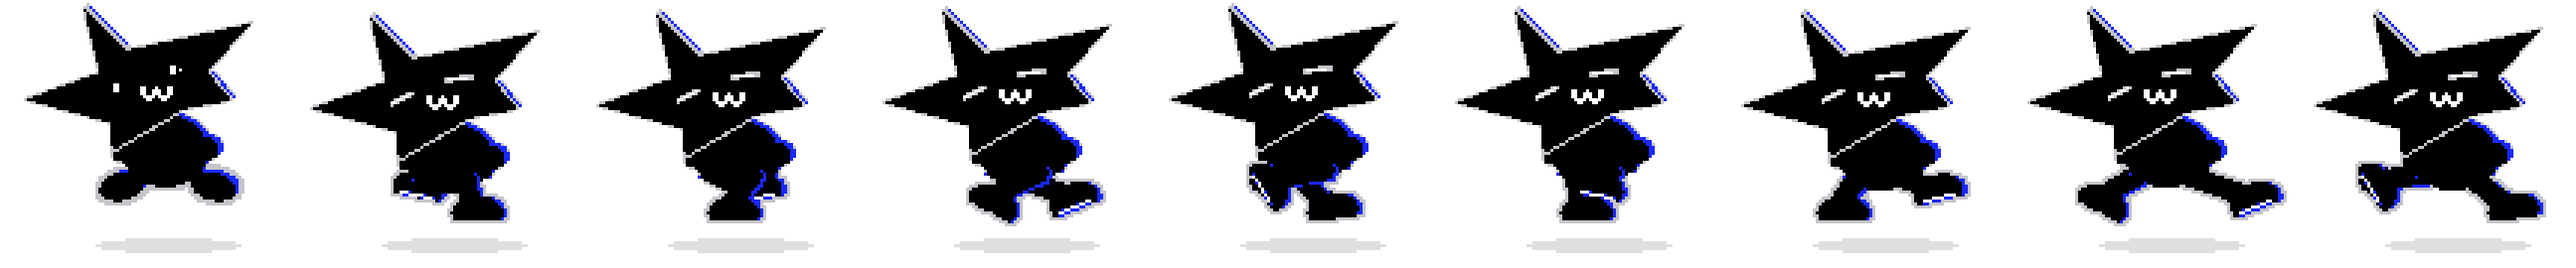
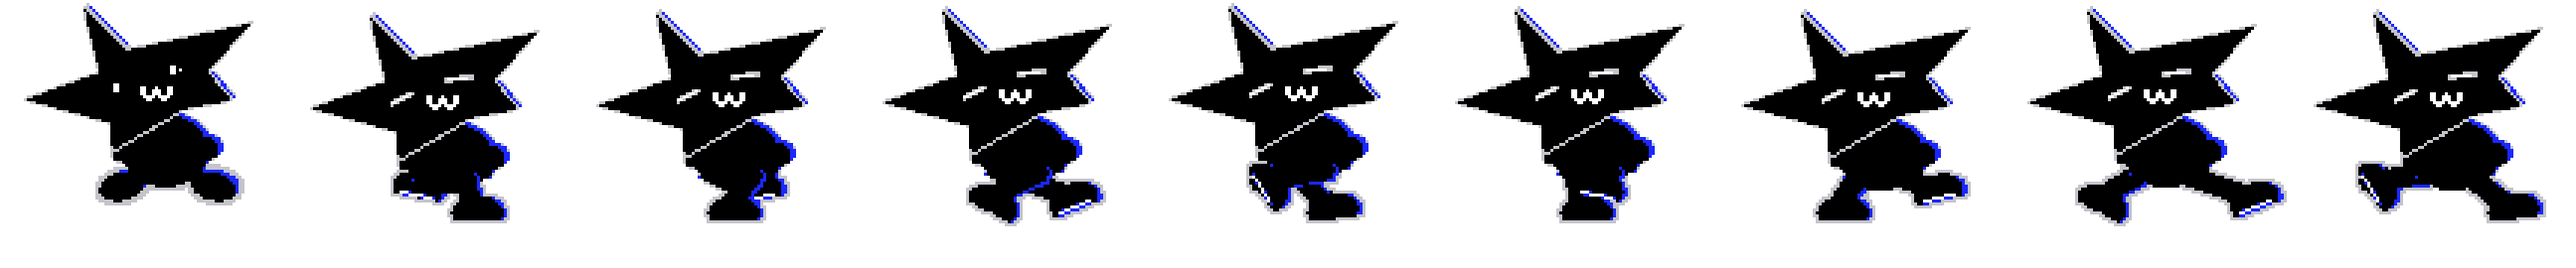
Runner: shadow stays on the ground while it jumps and runs
Claude-Session: https://claude.ai/code/session_01DXYceXV2BufLgyg9DJcQih

diff --git a/src/app/pong.css b/src/app/pong.css
@@ -368,9 +368,12 @@ button.pg-light { background: #ff5f57; cursor: pointer; }
 
 /* Feeling lucky 이스터에그: 7번째 누르면 별 캐릭터가 뛰어감 */
 .pg-egg { position: fixed; inset: 0; z-index: 100; pointer-events: none; overflow: hidden; }
-.pg-egg-run { position: absolute; bottom: 12vh; left: 0; width: 144px; height: 135px; background: 0 0 / 1296px 135px no-repeat; image-rendering: pixelated; transform-origin: 50% 100%; animation: pg-egg-hop .8s ease-in-out, pg-egg-dash 2.6s linear .8s both, pg-egg-legs .64s steps(8) .8s infinite; }
+.pg-egg-run { position: absolute; bottom: 12vh; left: 0; width: 144px; height: 135px; animation: pg-egg-dash 2.6s linear .8s both; }
+.pg-egg-run::before { content: ''; position: absolute; inset: 0; z-index: 1; background: var(--sprite) 0 0 / 1296px 135px no-repeat; image-rendering: pixelated; transform-origin: 50% 93%; animation: pg-egg-hop .8s ease-in-out, pg-egg-legs .64s steps(8) .8s infinite; }
+.pg-egg-run::after { content: ''; position: absolute; left: 48px; top: 120px; width: 72px; height: 7px; border-radius: 50%; background: rgba(0,0,0,.13); animation: pg-egg-shadow .8s ease-in-out; }
 /* pong이 그린 2장짜리 달리기 프레임을 넘기면서 화면을 가로질러 달려가요 */
 /* 첫 칸은 깜짝 놀란 얼굴: 제자리에서 폴짝 뛴 뒤 달려 나가요 */
+@keyframes pg-egg-shadow { 14% { transform: scaleX(1.12); } 42%, 58% { transform: scaleX(.55); opacity: .5; } 80% { transform: scaleX(1.15); } }
 @keyframes pg-egg-hop { 14% { transform: scale(1.18,.78); } 42% { transform: translateY(-64px) scale(.88,1.16) rotate(-8deg); } 58% { transform: translateY(-70px) rotate(5deg); } 80% { transform: scale(1.16,.82); } 92% { transform: scale(.96,1.05); } }
 @keyframes pg-egg-dash { from { translate: 6vw 0; } to { translate: 100vw 0; } }
 @keyframes pg-egg-legs { from { background-position: -144px 0; } to { background-position: -1296px 0; } }
@@ -378,8 +381,8 @@ button.pg-light { background: #ff5f57; cursor: pointer; }
 @keyframes pg-egg-fall { to { transform: translateY(110vh) rotate(540deg); } }
 .pg-egg-msg { position: absolute; left: 50%; top: 38%; margin: 0; padding: 10px 18px; background: var(--pg-ink); color: #fff; font-size: 15px; font-weight: 600; white-space: nowrap; transform: translateX(-50%) rotate(-3deg); animation: pg-egg-pop 3.6s cubic-bezier(.2,1.6,.4,1) forwards; }
 @keyframes pg-egg-pop { 0% { opacity: 0; transform: translateX(-50%) rotate(-3deg) scale(.6); } 12% { opacity: 1; transform: translateX(-50%) rotate(-3deg) scale(1); } 85% { opacity: 1; } 100% { opacity: 0; } }
-@media (prefers-reduced-motion: reduce) { .pg-egg-run, .pg-egg-star { animation-duration: .01s; }
-  .pg-egg-run { animation-iteration-count: 1; } }
+@media (prefers-reduced-motion: reduce) { .pg-egg-run, .pg-egg-run::before, .pg-egg-run::after, .pg-egg-star { animation-duration: .01s; }
+  .pg-egg-run::before { animation-iteration-count: 1; } }
 
 /* About: 접힌 페이지 (노션 토글 제목) */
 /* 어바웃 본문은 내용 길이와 상관없이 같은 폭으로 (접힌 페이지를 열 때 폭이 바뀌지 않게) */

diff --git a/src/components/pong/SiteHeader.tsx b/src/components/pong/SiteHeader.tsx
@@ -1,6 +1,6 @@
 'use client'
 
-import { useEffect, useRef, useState } from 'react'
+import { useEffect, useRef, useState, type CSSProperties } from 'react'
 import Link from 'next/link'
 import { usePathname, useRouter } from 'next/navigation'
 import { ABOUT_EVENT, PALETTES, PALETTE_STORAGE_KEY as STORAGE_KEY, type PaletteId } from '@/config/pong'
@@ -120,9 +120,9 @@ export function SiteHeader({ name, slugs }: SiteHeaderProps) {
       {egg && (
         <div className="pg-egg" aria-live="polite">
           {CONFETTI.map((i) => (
-            <Star key={i} size={10 + (i % 4) * 4} className="pg-egg-star" fill="#111111" style={{ '--x': `${(i * 53) % 100}vw`, '--delay': `${(i % 6) * 0.12}s` } as React.CSSProperties} />
+            <Star key={i} size={10 + (i % 4) * 4} className="pg-egg-star" fill="#111111" style={{ '--x': `${(i * 53) % 100}vw`, '--delay': `${(i % 6) * 0.12}s` } as CSSProperties} />
           ))}
-          <span className="pg-egg-run" style={{ backgroundImage: `url(${BASE}/images/pong-run.png)` }} />
+          <span className="pg-egg-run" style={{ '--sprite': `url(${BASE}/images/pong-run.png)` } as CSSProperties} />
           <p className="pg-egg-msg">별 다섯 개 적립! 오늘은 좋은 일이 생길 거예요 ✶</p>
         </div>
       )}
